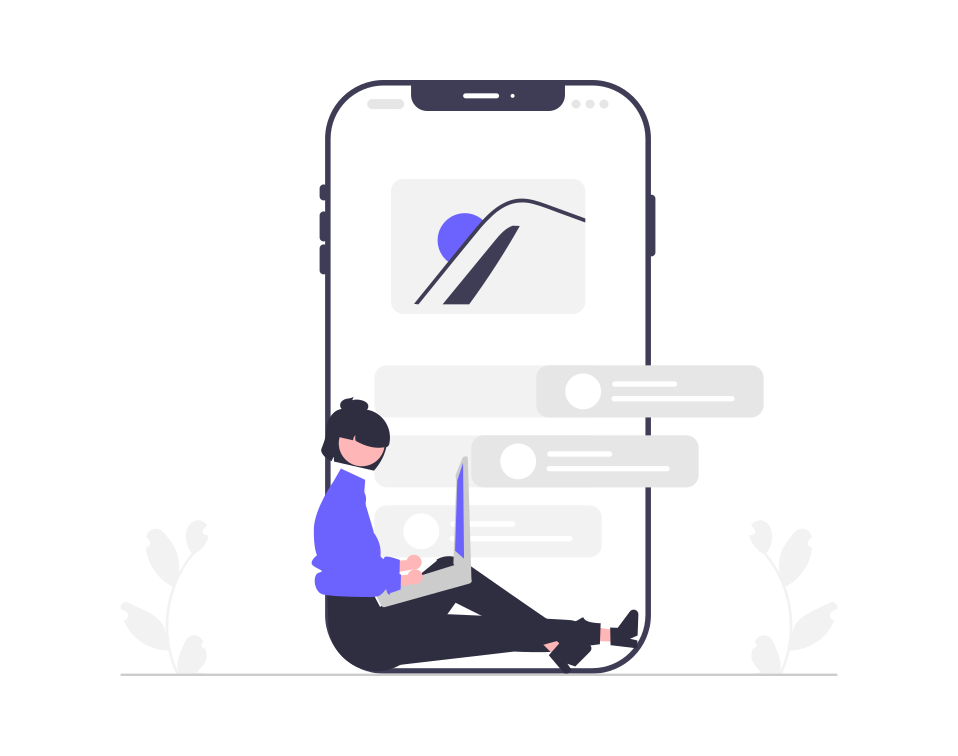
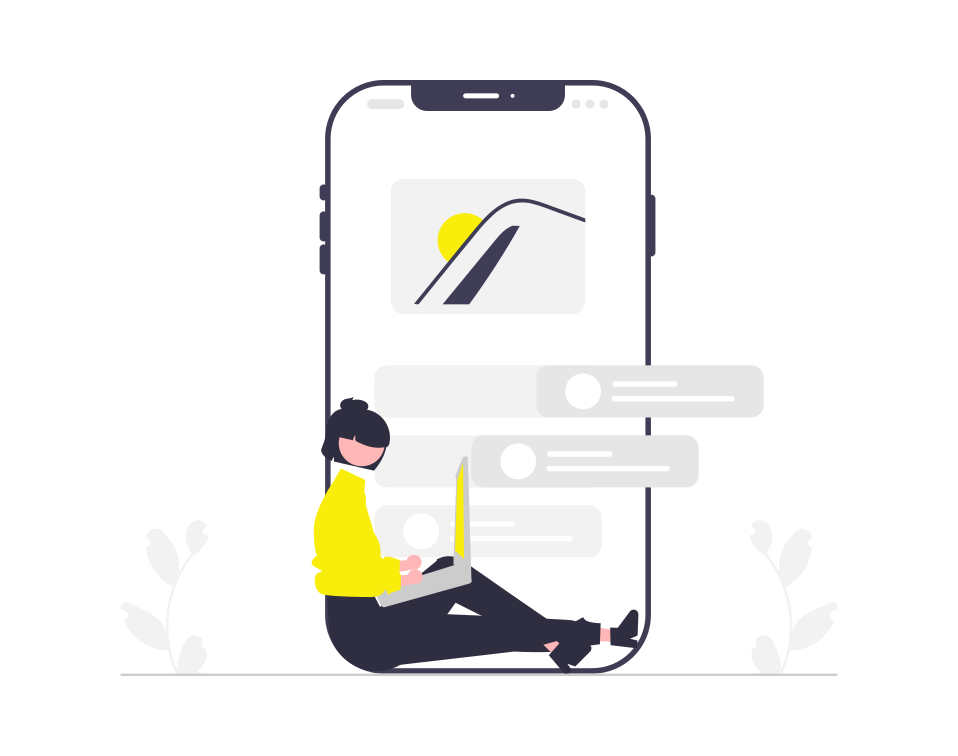
Second change

Changed region(s): [[0.3027, 0.6085, 0.4238, 0.791], [0.4541, 0.2738, 0.5146, 0.3651], [0.4541, 0.6085, 0.4843, 0.7302]]

diff --git a/src/components/pages/Home.jsx b/src/components/pages/Home.jsx
@@ -34,23 +34,22 @@ const Home = () => {
         <Box display="flex" justifyContent="center">
           <Box display="flex" flexDirection="column">
             <motion.div
-              initial={{ y: 1000 }} // Initial position (above the screen)
-              animate={{ y: 0 }} // Final position (center of the screen)
-              transition={{ duration: 2, type: "spring", damping: 10 }} // Updated animation duration
+              initial={{ y: 1000 }}
+              animate={{ y: 0 }}
+              transition={{ duration: 2, type: "spring", damping: 10 }}
             >
               <Box display="flex" flexDirection="column" gap={2}>
                 <Typography
                   variant="h3"
                   sx={{ color: "white", marginTop: "100px" }}
                 >
-                  We build an awesome software
+                  Techno Master Software Solutions
                 </Typography>
                 <Typography
                   variant="p"
-                  sx={{ color: "white", p: { xs: 5, sm: 3, md: 0 } }}
+                  sx={{ p: { xs: 5, sm: 3, md: 0 }, color: "white" }}
                 >
-                  Lorem ipsum dolor sit, amet consectetur adipisicing elit.
-                  Tempore quibusdam reiciendis temporibus.
+                  We build an awesome software
                 </Typography>
                 <Link
                   to="what we do"
@@ -61,9 +60,8 @@ const Home = () => {
                 >
                   <IconButton
                     sx={{
-                      backgroundColor: "#7F00FF",
+                      backgroundColor: "#F4D03F",
                       width: "40px",
-                      margin: "50px auto",
                     }}
                   >
                     <ArrowDropDownIcon
@@ -89,11 +87,9 @@ const Home = () => {
                 alignItems="center"
                 flexDirection="column"
               >
-                <img src={w1} alt="" width="250px" height="200px" />
+                <img src={w1} alt="" width="200px" height="150px" />
                 <Box display="flex" flexDirection="column" gap={1}>
-                  <Typography variant="h6" sx={{ color: "#7F00FF" }}>
-                    Web Development
-                  </Typography>
+                  <Typography variant="h6">Web Development</Typography>
                   <Typography variant="p" sx={{ color: "grey" }}>
                     Responsive | e-Com{" "}
                   </Typography>
@@ -107,11 +103,9 @@ const Home = () => {
                 alignItems="center"
                 flexDirection="column"
               >
-                <img src={w2} alt="" width="250px" height="200px" />
+                <img src={w2} alt="" width="200px" height="150px" />
                 <Box display="flex" flexDirection="column" gap={1}>
-                  <Typography variant="h6" sx={{ color: "#7F00FF" }}>
-                    App Development
-                  </Typography>
+                  <Typography variant="h6">App Development</Typography>
                   <Typography variant="p" sx={{ color: "grey" }}>
                     Open Source | Android | IOS
                   </Typography>
@@ -125,11 +119,9 @@ const Home = () => {
                 alignItems="center"
                 flexDirection="column"
               >
-                <img src={w3} alt="" width="250px" height="200px" />
+                <img src={w3} alt="" width="230px" height="150px" />
                 <Box display="flex" flexDirection="column" gap={1}>
-                  <Typography variant="h6" sx={{ color: "#7F00FF" }}>
-                    Project Management
-                  </Typography>
+                  <Typography variant="h6">Project Management</Typography>
                   <Typography variant="p" sx={{ color: "grey" }}>
                     Facebook | Google
                   </Typography>
@@ -143,11 +135,9 @@ const Home = () => {
                 alignItems="center"
                 flexDirection="column"
               >
-                <img src={w4} alt="" width="250px" height="200px" />
+                <img src={w4} alt="" width="200px" height="150px" />
                 <Box display="flex" flexDirection="column" gap={1}>
-                  <Typography variant="h6" sx={{ color: "#7F00FF" }}>
-                    Security and Privacy
-                  </Typography>
+                  <Typography variant="h6">Security and Privacy</Typography>
                   <Typography variant="p" sx={{ color: "grey" }}>
                     Authentication | Data Security
                   </Typography>
@@ -184,16 +174,13 @@ const Home = () => {
                 marginTop: "50px",
               }}
             >
-              <IconButton sx={{ p: 2, backgroundColor: "#7F00FF" }}>
+              <IconButton sx={{ p: 2, backgroundColor: "#F4D03F" }}>
                 <PublicIcon
                   sx={{ color: "white", width: "50px", height: "50px" }}
                 />
               </IconButton>
               <Box display="flex" flexDirection="column" gap={1}>
-                <Typography
-                  variant="h6"
-                  sx={{ color: "#7F00FF", fontWeight: "bold" }}
-                >
+                <Typography variant="h6" sx={{ fontWeight: "bold" }}>
                   Domain Registration
                 </Typography>
                 <Typography variant="p" sx={{ color: "grey" }}>
@@ -216,16 +203,13 @@ const Home = () => {
                 marginTop: "50px",
               }}
             >
-              <IconButton sx={{ p: 2, backgroundColor: "#7F00FF" }}>
+              <IconButton sx={{ p: 2, backgroundColor: "#F4D03F" }}>
                 <CloudQueueIcon
                   sx={{ color: "white", width: "50px", height: "50px" }}
                 />
               </IconButton>
               <Box display="flex" flexDirection="column" gap={1}>
-                <Typography
-                  variant="h6"
-                  sx={{ color: "#7F00FF", fontWeight: "bold" }}
-                >
+                <Typography variant="h6" sx={{ fontWeight: "bold" }}>
                   Web Hosting
                 </Typography>
                 <Typography variant="p" sx={{ color: "grey" }}>
@@ -248,16 +232,13 @@ const Home = () => {
                 marginTop: "50px",
               }}
             >
-              <IconButton sx={{ p: 2, backgroundColor: "#7F00FF" }}>
+              <IconButton sx={{ p: 2, backgroundColor: "#F4D03F" }}>
                 <EmailIcon
                   sx={{ color: "white", width: "50px", height: "50px" }}
                 />
               </IconButton>
               <Box display="flex" flexDirection="column" gap={1}>
-                <Typography
-                  variant="h6"
-                  sx={{ color: "#7F00FF", fontWeight: "bold" }}
-                >
+                <Typography variant="h6" sx={{ fontWeight: "bold" }}>
                   Email Service
                 </Typography>
                 <Typography variant="p" sx={{ color: "grey" }}>
@@ -280,16 +261,13 @@ const Home = () => {
                 marginTop: "50px",
               }}
             >
-              <IconButton sx={{ p: 2, backgroundColor: "#7F00FF" }}>
+              <IconButton sx={{ p: 2, backgroundColor: "#F4D03F" }}>
                 <SmsIcon
                   sx={{ color: "white", width: "50px", height: "50px" }}
                 />
               </IconButton>
               <Box display="flex" flexDirection="column" gap={1}>
-                <Typography
-                  variant="h6"
-                  sx={{ color: "#7F00FF", fontWeight: "bold" }}
-                >
+                <Typography variant="h6" sx={{ fontWeight: "bold" }}>
                   Web SMS
                 </Typography>
                 <Typography variant="p" sx={{ color: "grey" }}>
@@ -316,9 +294,13 @@ const Home = () => {
         <Button
           variant="contained"
           sx={{
-            backgroundColor: "#7F00FF",
+            backgroundColor: "#F4D03F",
             borderRadius: "30px",
             p: "10px 50px",
+            color: "black",
+            "&:hover": {
+              backgroundColor: "yellow",
+            },
           }}
         >
           Get Started

diff --git a/src/components/layout/Navbar.jsx b/src/components/layout/Navbar.jsx
@@ -35,7 +35,7 @@ function Navbar() {
   };
 
   return (
-    <AppBar position="sticky" sx={{ backgroundColor: "#7F00FF" }}>
+    <AppBar position="sticky" sx={{ backgroundColor: "#F4D03F" }}>
       <Container maxWidth="xl">
         <Toolbar disableGutters>
           <Typography
@@ -48,7 +48,7 @@ function Navbar() {
               display: { xs: "none", md: "flex" },
               fontFamily: "monospace",
               fontWeight: 700,
-              color: "inherit",
+
               textDecoration: "none",
             }}
           >
@@ -62,7 +62,6 @@ function Navbar() {
               aria-controls="menu-appbar"
               aria-haspopup="true"
               onClick={handleOpenNavMenu}
-              color="inherit"
             >
               <MenuIcon />
             </IconButton>
@@ -86,7 +85,9 @@ function Navbar() {
             >
               {pages.map((page) => (
                 <MenuItem key={page} onClick={handleCloseNavMenu}>
-                  <Typography textAlign="center">{page}</Typography>
+                  <Typography textAlign="center" sx={{ color: "black" }}>
+                    {page}
+                  </Typography>
                 </MenuItem>
               ))}
             </Menu>
@@ -102,7 +103,7 @@ function Navbar() {
               display: { xs: "flex", md: "none" },
               flexGrow: 1,
               fontFamily: "monospace",
-              color: "inherit",
+
               textDecoration: "none",
             }}
           >
@@ -113,7 +114,7 @@ function Navbar() {
               <Button
                 key={page}
                 onClick={handleCloseNavMenu}
-                sx={{ my: 2, color: "white", display: "block" }}
+                sx={{ my: 2, color: "black", display: "block" }}
               >
                 {page}
               </Button>

diff --git a/src/components/layout/Footer.jsx b/src/components/layout/Footer.jsx
@@ -28,11 +28,11 @@ const Footer = () => {
               variant="h5"
               sx={{
                 fontFamily: "Fasthand",
-                color: "#7F00FF",
+
                 textAlign: { xs: "center", md: "start" },
               }}
             >
-              G Creations
+              Techno Master Software Solutions
             </Typography>
             <Typography
               variant="p"
